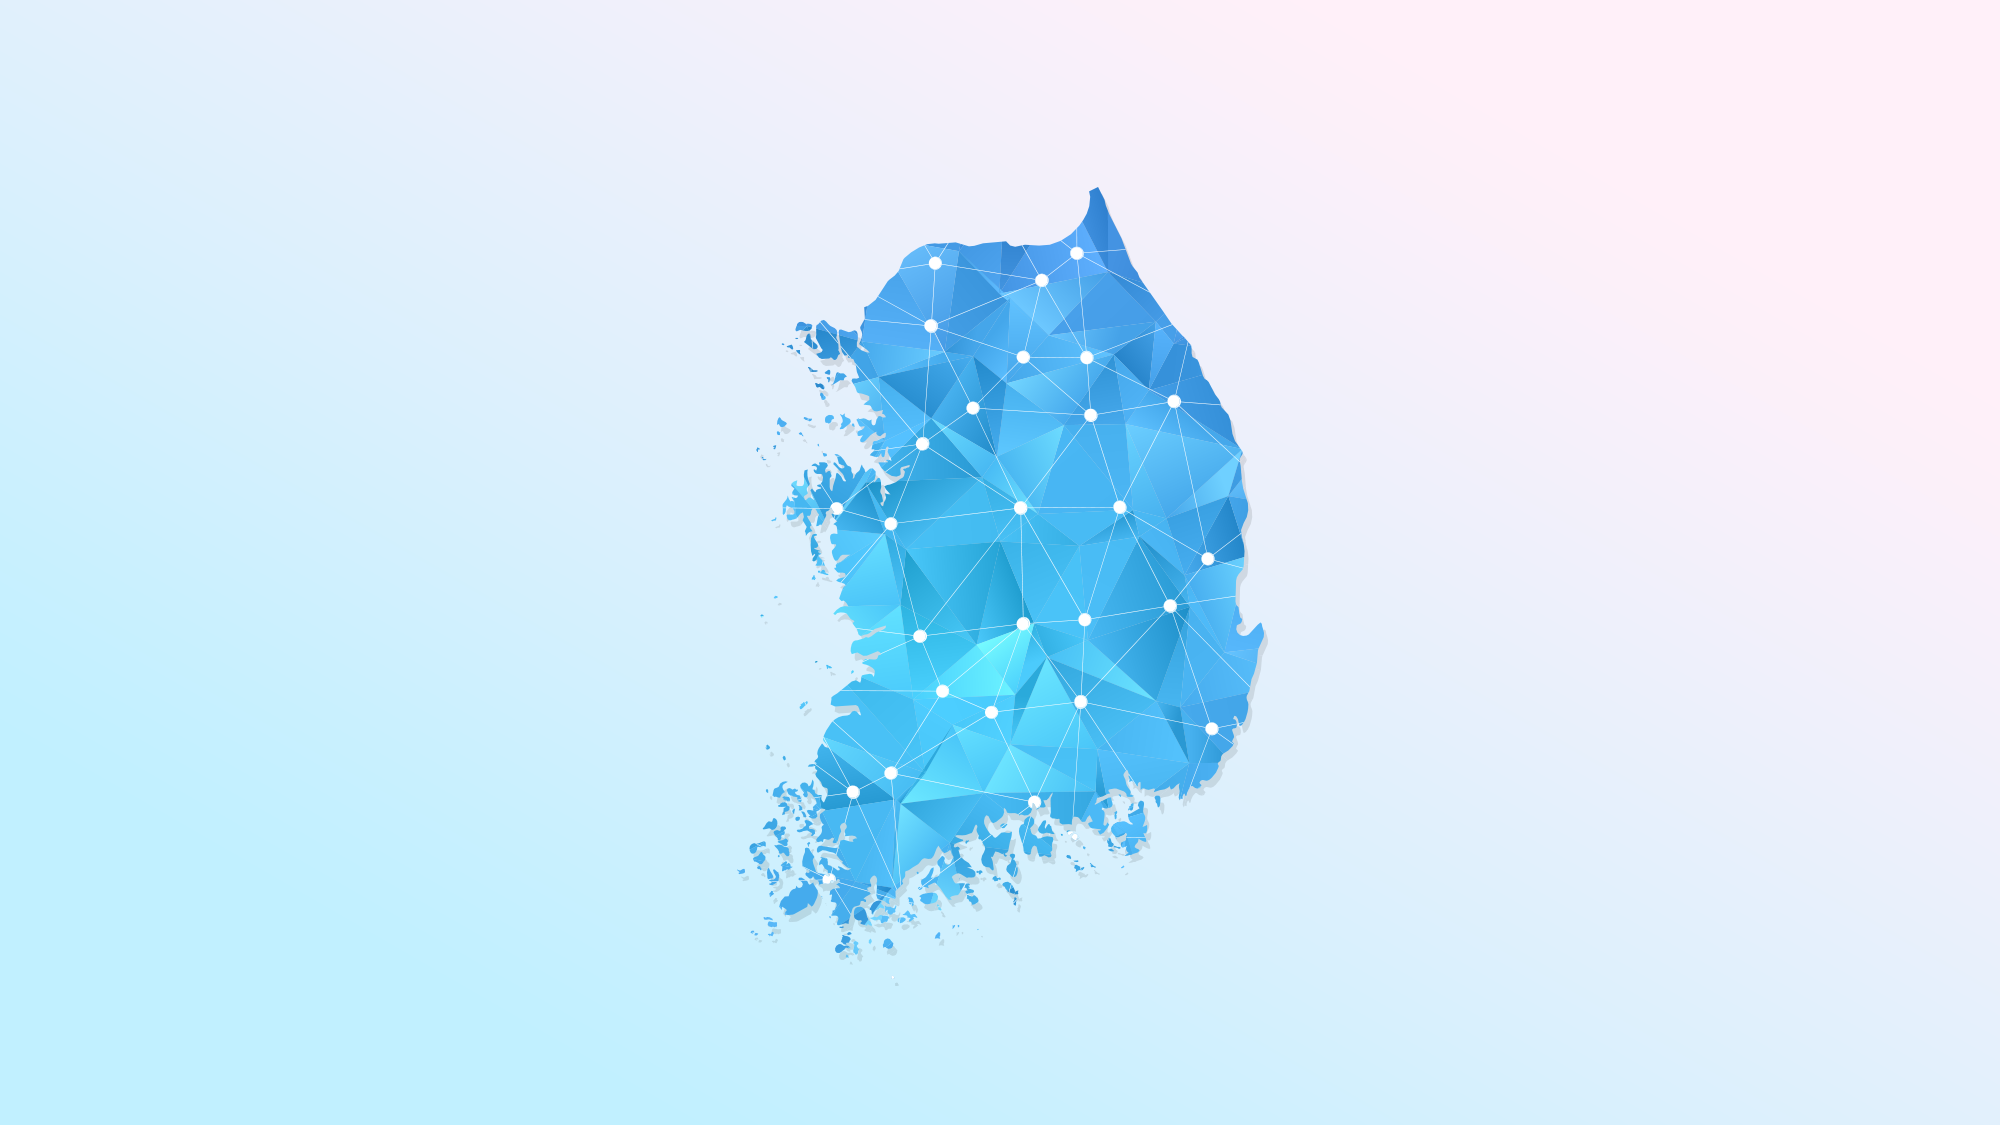
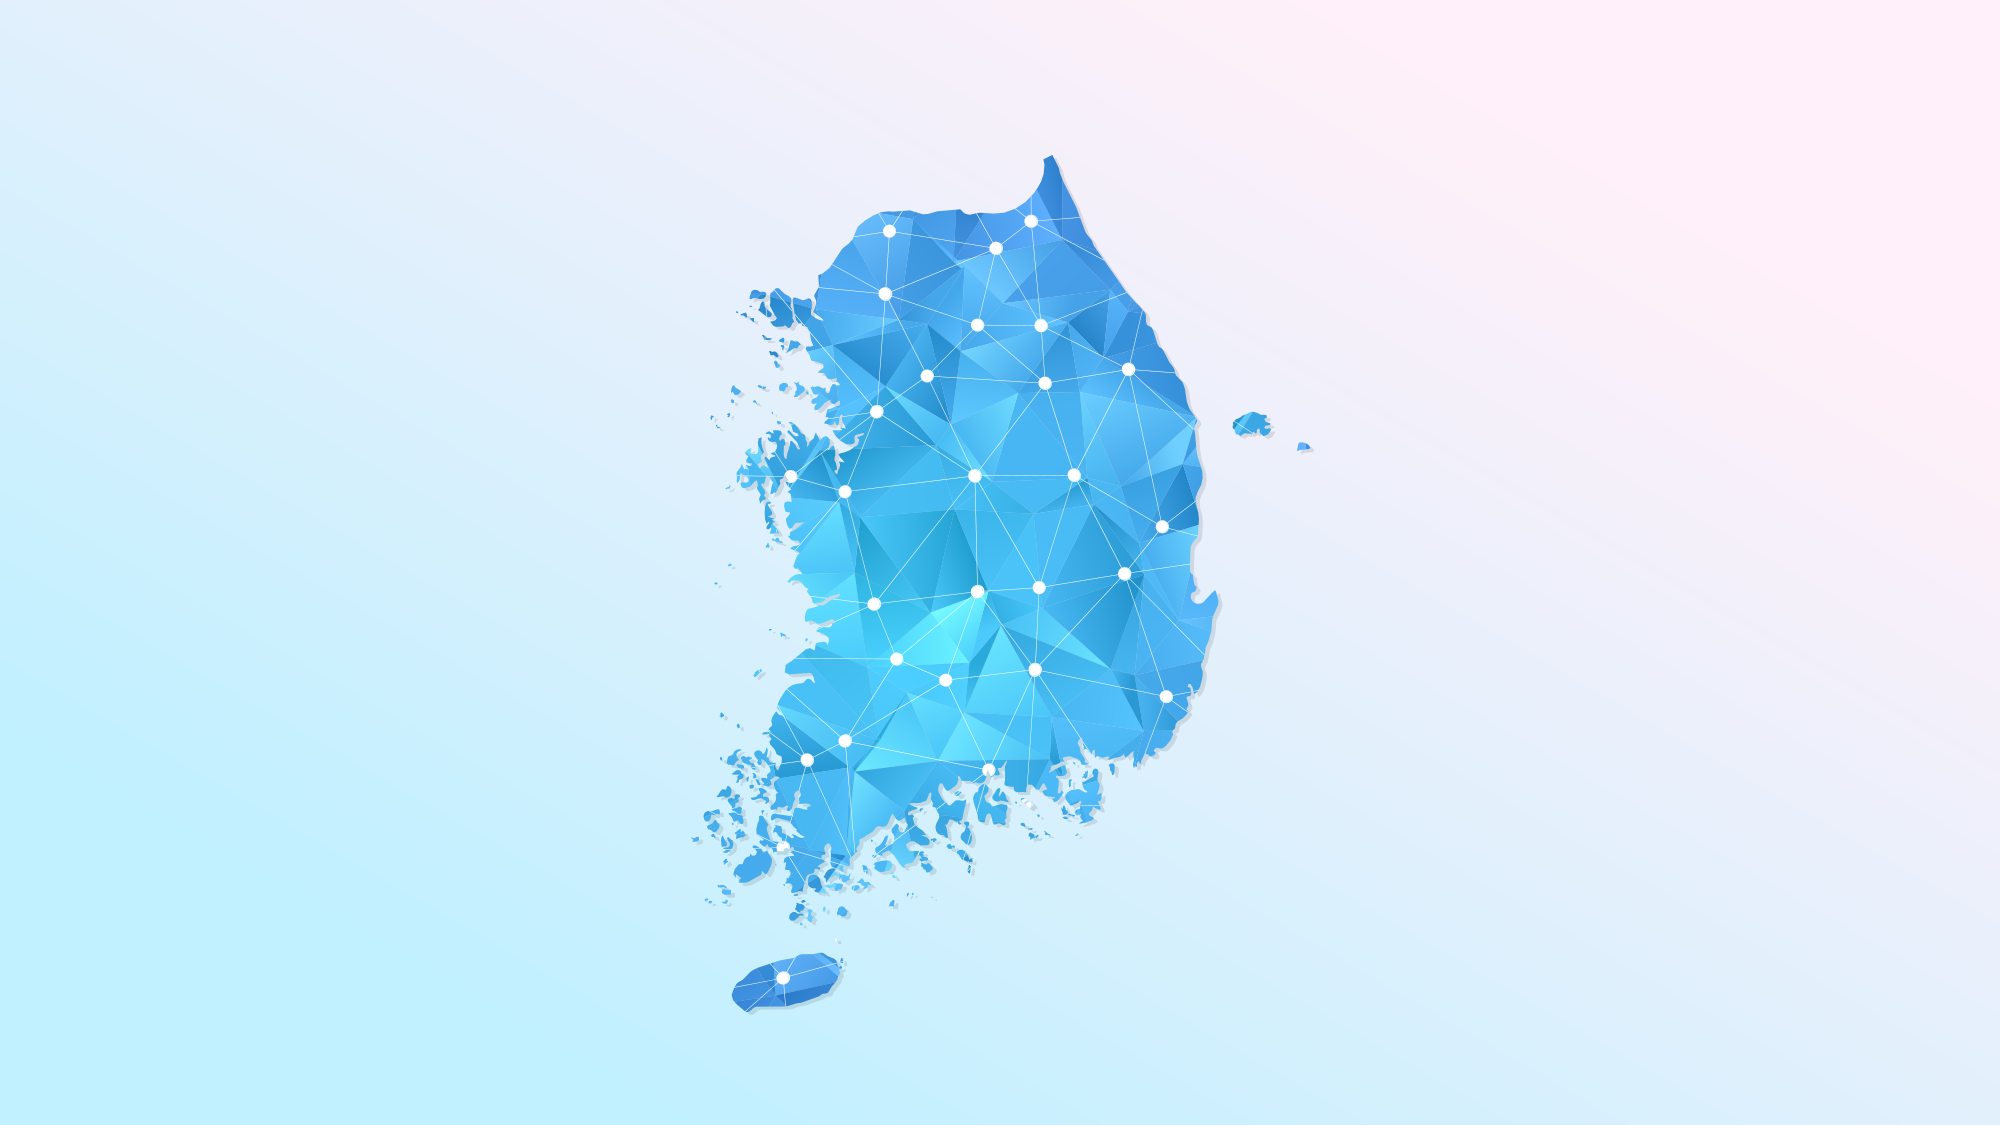
디지털 지도 메인 반짝이는 효과 적용

Changed region(s): [[0.341, 0.1556, 0.651, 0.9022]]

diff --git a/pc/css/map.css b/pc/css/map.css
@@ -171,7 +171,7 @@ select.size-lg+.select2-container .select2-selection--single .select2-selection_
 /* table */
 .table-type1 table {width: 100%; border-top: 1px solid #DBDBE4;}
 .table-type1 table:not(:first-child) {margin-top: 20px;}
-.table-type1 th, .table-type1 td {padding: 16px 16px 15px 16px; border-bottom: 1px solid #DBDBE4; font-size: 14px; font-weight: 500; line-height: 20px; vertical-align: middle; text-align: center;}
+.table-type1 th, .table-type1 td {padding: 16px 16px 15px 16px; border-bottom: 1px solid #DBDBE4; font-size: 14px; font-weight: 400; line-height: 20px; vertical-align: middle; text-align: center;}
 .table-type1 th {background-color: #F7F7FB; border-right: 1px solid #DBDBE4;}
 .table-type1 td {border-right: 1px solid #DBDBE4;}
 .table-type1 th:last-child, .table-type1 td:last-child {border-right: 0;}
@@ -180,6 +180,8 @@ select.size-lg+.select2-container .select2-selection--single .select2-selection_
 .table-type1 .place-search {display: inline-flex; align-items: center; position: relative; max-width: 100%;}
 .table-type1 .place-search .name {display: inline-block; max-width: 100%; overflow: hidden; text-overflow: ellipsis; white-space: nowrap;}
 .table-type1 .place-search svg {flex-shrink: 0; width: 16px; height: 16px; margin-left: 4px; color: #5A5C63;}
+.table-type1 .file-ing {color: #C5C8CE; pointer-events: none;}
+.table-type1 .file-ing svg {color: #C5C8CE;}
 .table-type1 .nodata-box {padding-top: 104px; padding-bottom: 104px;}
 .table-type1.type-view td {text-align:left;}
 .sort-desc, .sort-asc {position: relative; cursor: pointer;}
@@ -599,6 +601,19 @@ fieldset .inp-sm {flex: none; width: 74px !important;}
 .my-map-form .ox [type=checkbox] + label {font-weight: 500; color: #000;}
 .my-map-form .ox ~ p {margin-top: 8px;}
 
+/* 재외 주소 변경 팝업 */
+.popup.h-fix .body {height: 384px;}
+.popup.h-fix .addr-info-box {height: 296px; margin-top: 0 !important; overflow-y: auto;}
+.addr-info-box .nodata-box {height: 100%;}
+.addr-info-box .nodata-box p {display: flex; justify-content: center; align-items: center; height: 100%; padding: 20px;}
+.addr-list .addr-item {display: block; padding: 12px 12px 11px; border-bottom: 1px solid #DBDBE4;}
+.addr-list .addr-item .txt-addr {display: block; font-size: 14px; font-weight: 400; line-height: 20px; color: #000;}
+.addr-list .addr-item .txt-addr ~ .txt-loc {margin-top: 2px;}
+.addr-list .addr-item .txt-loc {display: block; font-size: 13px; font-weight: 400; line-height: 18px; color: #989BA2;}
+.addr-list .addr-item:hover {background-color: #F7F7FB;}
+.addr-list .addr-item:hover .txt-addr {text-decoration: underline;}
+
+
 /* 디지털 지도 수업 자료실 핵심 사용 가이드 */
 .dmap-guide-layer {display: none; position: fixed; left: 0; top: 0; width: 100%; height: 100%; z-index: 100; background-color: rgba(0, 0, 0, 0.8);}
 .dmap-guide-layer .close-button {z-index: 101; position: absolute; right: 32px; top: 32px; width: 40px; height: 40px; color: #fff; border: 0;}
@@ -662,7 +677,7 @@ fieldset .inp-sm {flex: none; width: 74px !important;}
 .main-visual .card .image-box img {position: absolute; left: 0; top: 0; width: 100%; height: 100%; object-fit: cover; transition: .3s;}
 .main-visual .card .image-box .blinking {opacity: 0;}
 .main-visual .card:hover .image-box img {transform: scale(1.2);}
-.main-visual .card:hover .image-box .blinking {animation: blink .75s infinite;}
+.main-visual .card:hover .image-box .blinking {animation: blink 1.6s infinite;}
 .main-visual .card.item-domestic {flex-grow: 2; transform-origin: left;}
 .main-visual .card.item-world {flex-grow: 0.968; transform-origin: right;}
 .main-visual .dimed {display: none; position: absolute; left: 0; top: 0; width: 100%; height: 100%; background-color: rgba(0, 0, 0, 0.6); pointer-events: none;}

diff --git a/pc/html/map/SB_map_main_002.html b/pc/html/map/SB_map_main_002.html
@@ -108,6 +108,7 @@
 					<div class="card item-domestic">
 						<div class="image-box">
 							<img src="/assets/images/map/img-dmap-visual01.png" alt="대한민국" />
+							<img src="/assets/images/map/img-dmap-visual01-blink.png" alt="" class="blinking" />
 						</div>
 						<div class="detail-box">
 							<div class="box-cont">
@@ -121,6 +122,7 @@
 					<div class="card item-world">
 						<div class="image-box">
 							<img src="/assets/images/map/img-dmap-visual02.png" alt="세계" />
+							<img src="/assets/images/map/img-dmap-visual02-blink.png" alt="" class="blinking" />
 						</div>
 						<div class="detail-box">
 							<div class="box-cont">
